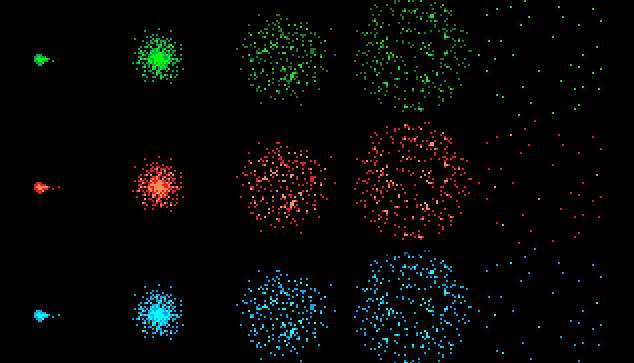
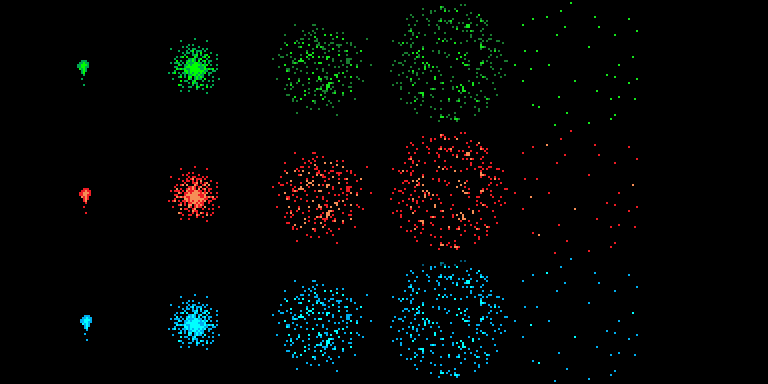
monkey

diff --git a/OrcMathGUI/src/holidayGreetings/SurpriseScreen.java b/OrcMathGUI/src/holidayGreetings/SurpriseScreen.java
@@ -6,6 +6,7 @@ import java.util.List;
 import guiTeacher.components.Action;
 import guiTeacher.components.AnimatedComponent;
 import guiTeacher.components.Button;
+import guiTeacher.components.Graphic;
 import guiTeacher.components.TextArea;
 import guiTeacher.interfaces.Visible;
 import guiTeacher.userInterfaces.FullFunctionScreen;
@@ -22,22 +23,25 @@ public class SurpriseScreen extends FullFunctionScreen{
 	}
 
 	public void initAllObjects(List<Visible> viewObjects) {
-		fireworks = new AnimatedComponent(150, 150, 100, 100);
-		fireworks.addSequence("resources/fireworks.png", 200, 0, 0, 100, 100, 5);
+		setBackground(Color.BLACK);
+		Graphic gym = new Graphic(0, 0, 800, 550, "resources/img.png");
+		fireworks = new AnimatedComponent(0, 0, 128, 96);
+		fireworks.addSequence("resources/fireworks.png", 200, 0, 0, 128, 96, 6);
 		Thread run = new Thread(fireworks);
 		run.start();
 		viewObjects.add(fireworks);
 		
-		fireworks1 = new AnimatedComponent(450, 150, 100, 110);
-		fireworks1.addSequence("resources/fireworks.png", 200, 0, 0, 100, 110, 5);
+		fireworks1 = new AnimatedComponent(650, 0, 128, 96);
+		fireworks1.addSequence("resources/fireworks.png", 200, 0, 132, 128, 96, 6);
 		Thread run1 = new Thread(fireworks1);
 		run1.start();
 		viewObjects.add(fireworks1);
-		
-		area = new TextArea(250, 250, 200, 200, "Your New Year's resolution should be to go to the gym!");
+		viewObjects.add(gym);
+		area = new TextArea(250, 250, 200, 200, "Your chicken legs will not be tolerated this year!");
+		area.setBackgroundColor(Color.gray);
 		viewObjects.add(area);
 		
-		change = new Button(50,50,100,100, "Go Back", new Action() {
+		change = new Button(450,450,100,100, "Go Back", new Action() {
 			
 			public void act() {
 				HolidayGUI.holiday.setScreen(HolidayGUI.screen1);

diff --git a/OrcMathGUI/src/holidayGreetings/GreetingScreen.java b/OrcMathGUI/src/holidayGreetings/GreetingScreen.java
@@ -9,7 +9,7 @@ import guiTeacher.userInterfaces.FullFunctionScreen;
 
 public class GreetingScreen extends FullFunctionScreen {
 	
-	private TextArea area;
+//	private TextArea area;
 	private Button change;
 
 	public GreetingScreen(int width, int height) {
@@ -19,11 +19,10 @@ public class GreetingScreen extends FullFunctionScreen {
 
 	public void initAllObjects(List<Visible> viewObjects) {
 		StyledComponent.setButtonOutline(true);
-		area = new TextArea(250, 250, 200, 200, "It's New Years! Check for your New Years resolution!");
-		area.setBackgroundColor(Color.red);
-		area.setCustomTextColor(Color.RED);
-		viewObjects.add(area);
-		change = new Button(50,50,100,100, "CLICK ME", new Action() {
+		Graphic newyr = new Graphic(0,0,800, 550, "resources/newyear.jpg");
+		viewObjects.add(newyr);
+		Color mCol = new Color(239, 232, 177);
+		change = new Button(200,450,400,50, "Special message brought to you by Arnold Schwarzenegger", mCol, new Action() {
 			
 			public void act() {
 				HolidayGUI.holiday.setScreen(HolidayGUI.screen2);
